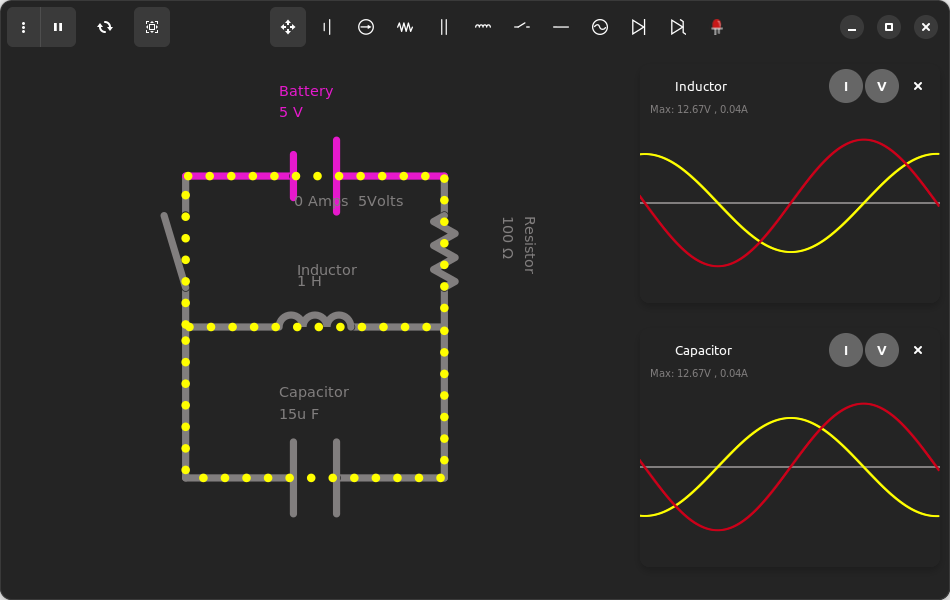
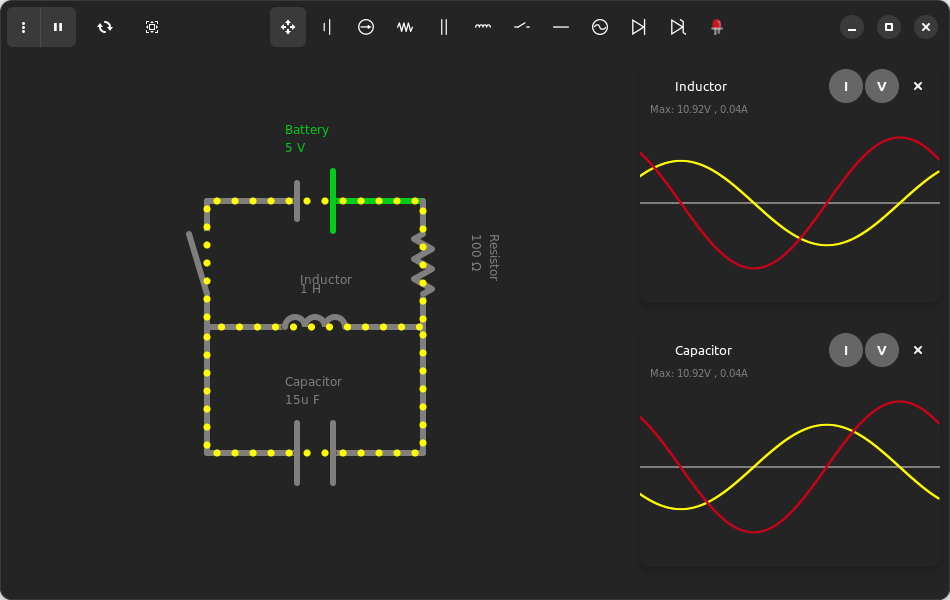
Changed Screenshots.

diff --git a/README.md b/README.md
@@ -13,9 +13,8 @@
   </p>
 </div>
 
-![](screenshots/double-clipper.png)
 ![](screenshots/rlc.png)
-![](screenshots/led.png)
+![](screenshots/zener-light.png)
 
 ### Features
 - Draw arbitrary circuits
